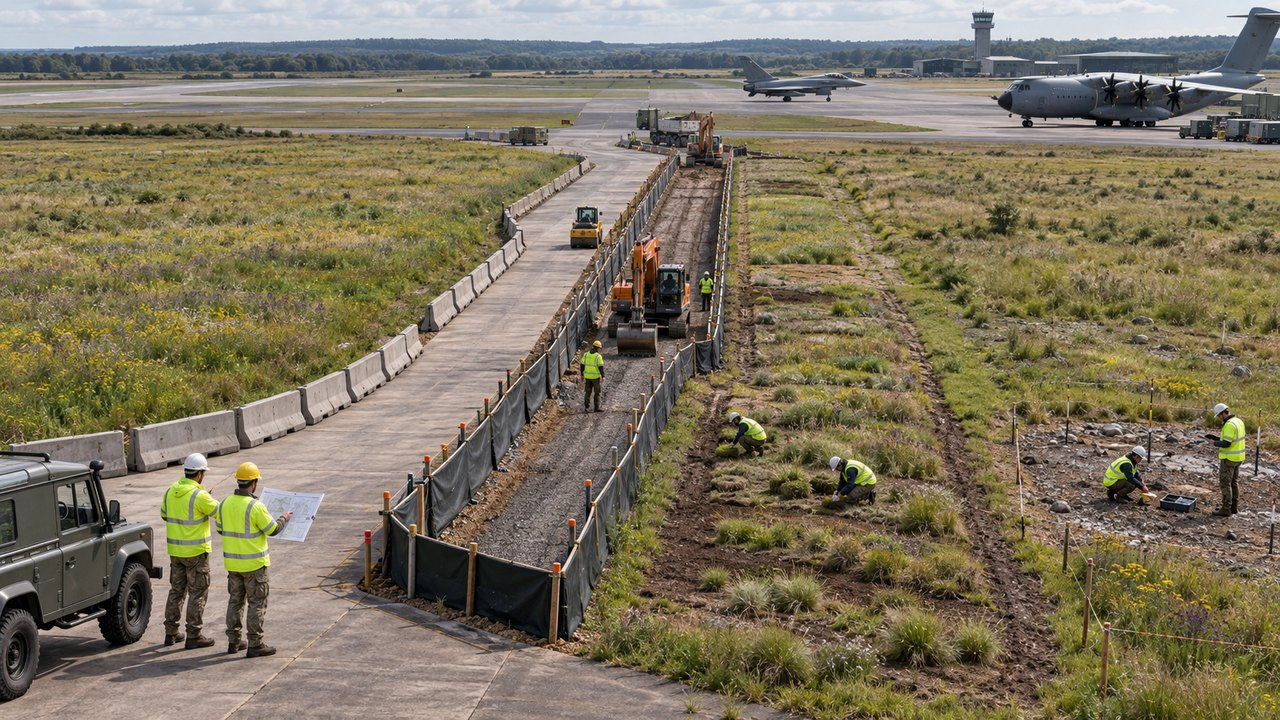
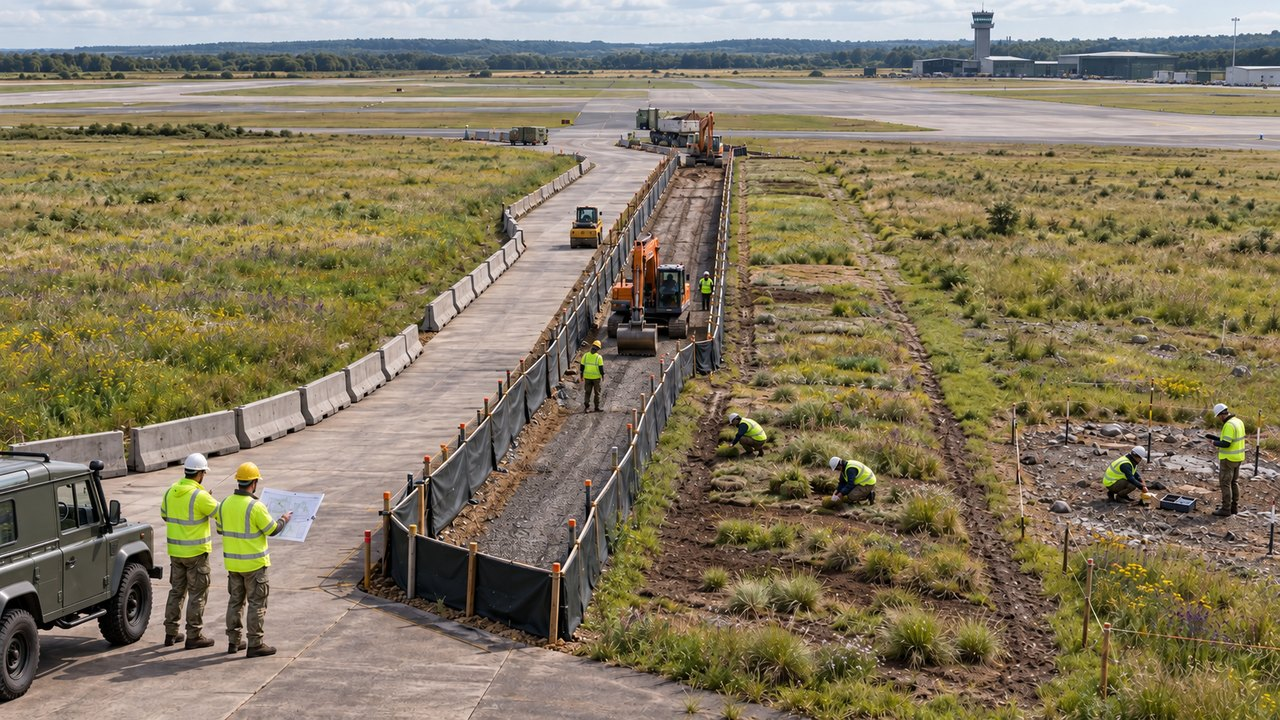
Enforce aircraft and vegetation separation

diff --git a/index.html b/index.html
@@ -5,6 +5,7 @@
   <meta name="viewport" content="width=device-width,initial-scale=1">
   <meta name="description" content="Course on sustainability and biodiversity applied to the aerospace life cycle, operations and professional decision-making.">
   <title>Sustainable Aviation Foundations</title>
+  <!-- Visual rule: images containing vegetation contain no aircraft; images containing aircraft contain no vegetation. Aircraft are limited to A400M or Eurofighter. -->
   <style>
     :root{
       --navy:#071a33;--navy2:#0c2b52;--ink:#17243a;--muted:#52627a;--line:#dfe7ef;
@@ -86,8 +87,7 @@
               <div class="metrics"><div class="metric"><strong>8</strong><span>Modules</span></div><div class="metric"><strong>3–5 h</strong><span>Flexible pace</span></div><div class="metric"><strong>10</strong><span>Decisions</span></div></div>
             </div>
             <div class="heroMedia">
-              <img src="https://upload.wikimedia.org/wikipedia/commons/f/f3/Royal_Air_Force_Airbus_A400M_ZM400_in_flight_over_Bristol_%2845158515%29.jpg" alt="Royal Air Force A400M Atlas flying over Bristol">
-              <div class="photoCaption">A400M Atlas · Cpl Paul Oldfield / UK MoD, Open Government Licence. <a href="https://commons.wikimedia.org/wiki/File:Royal_Air_Force_Airbus_A400M_ZM400_in_flight_over_Bristol_(45158515).jpg" target="_blank" rel="noopener">Source and licence</a></div>
+              <img src="assets/concept-lifecycle.jpg" alt="Engineering team reviews materials and life-cycle stages of a Eurofighter inside an industrial setting with no vegetation">
             </div>
           </div>
         </div>
@@ -127,15 +127,6 @@
             <div class="term"><dt>Ecological integrity</dt><dd>An ecosystem's capacity to maintain its composition, structure, functions and processes over time.</dd></div>
           </dl>
         </section>
-        <section class="section">
-          <div class="sectionHead"><div><div class="kicker">Photo credits</div><h2>Real aircraft, verifiable sources</h2></div><p>Every photograph shows an A400M or Eurofighter and links to its source record and reuse conditions.</p></div>
-          <div class="sourceGrid">
-            <div class="source"><strong>A400M in flight · Cpl Paul Oldfield / UK MoD</strong><a href="https://commons.wikimedia.org/wiki/File:Royal_Air_Force_Airbus_A400M_ZM400_in_flight_over_Bristol_(45158515).jpg" target="_blank" rel="noopener">Wikimedia Commons · Open Government Licence</a></div>
-            <div class="source"><strong>A400M beach landing · Andrew Linnett / UK MoD</strong><a href="https://commons.wikimedia.org/wiki/File:A400M_Beach_Landings_MOD_45162698_(cropped).jpg" target="_blank" rel="noopener">Wikimedia Commons · source and licence</a></div>
-            <div class="source"><strong>Eurofighter in flight · Tech. Sgt. Emerson Nuñez / U.S. Air Force</strong><a href="https://commons.wikimedia.org/wiki/File:Three_German_Luftwaffe_Eurofighter_Typhoon_of_TaktLwG_71_in_flight_over_Germany_on_18_March_2021_(210318-F-TF218-1018).JPG" target="_blank" rel="noopener">Wikimedia Commons · U.S. public domain</a></div>
-            <div class="source"><strong>Eurofighter preflight · Airman 1st Class Dwane R. Young / U.S. Air Force</strong><a href="https://commons.wikimedia.org/wiki/File:German_Luftwaffe_Eurofighter_Typhoon_of_the_31st_Wing_at_Nellis_AFB,_Nevada_(USA),_9_March_2020_(200309-F-NX702-019).JPG" target="_blank" rel="noopener">Wikimedia Commons · U.S. public domain</a></div>
-          </div>
-        </section>
       </section>
       <section id="m1" class="view">
         <div class="moduleHero">
@@ -145,7 +136,7 @@
             <p>Sustainability is not a collection of environmental actions. It is the capacity to preserve value and fulfil a mission without degrading the social, economic and ecological conditions on which that activity depends.</p>
             <div class="moduleMeta"><span class="chip">Dependencies</span><span class="chip">Impacts</span><span class="chip">Double materiality</span></div>
           </div>
-          <div class="moduleImage"><img src="https://upload.wikimedia.org/wikipedia/commons/thumb/e/e8/Three_German_Luftwaffe_Eurofighter_Typhoon_of_TaktLwG_71_in_flight_over_Germany_on_18_March_2021_%28210318-F-TF218-1018%29.JPG/1280px-Three_German_Luftwaffe_Eurofighter_Typhoon_of_TaktLwG_71_in_flight_over_Germany_on_18_March_2021_%28210318-F-TF218-1018%29.JPG" alt="Three German Air Force Eurofighter Typhoons flying over Germany"></div>
+          <div class="moduleImage"><img src="assets/concept-decision-system.jpg" alt="Cross-functional team reviews a systems decision beside an A400M inside a hangar with no vegetation"></div>
         </div>
         <div class="moduleNav"><button class="btn light" data-home>← Course menu</button><span class="chip">01 / 08</span></div>
 
@@ -170,7 +161,7 @@
         <section class="section">
           <div class="sectionHead"><div><div class="kicker">Theory 1.2</div><h2>From ecological interaction to business risk</h2></div></div>
           <div class="theoryGrid">
-            <figure class="theoryFigure"><img src="assets/concept-dependencies.jpg" alt="Technical team connects water, soil, habitats, operations and maintenance decisions at an A400M base" loading="lazy" decoding="async"><figcaption><strong>Reading the system</strong><span>Operations depend on natural resources and functions while also creating pressures. The analysis connects those relationships to risks, opportunities and specific decisions.</span></figcaption></figure>
+            <figure class="theoryFigure"><img src="assets/concept-dependencies.jpg" alt="Technical team connects water, soil, habitats, operations and maintenance decisions at a military facility with no aircraft" loading="lazy" decoding="async"><figcaption><strong>Reading the system</strong><span>Operations depend on natural resources and functions while also creating pressures. The analysis connects those relationships to risks, opportunities and specific decisions.</span></figcaption></figure>
             <article class="theoryCard accent"><h3>Dependencies</h3><p>A dependency exists when an organisation needs a contribution from nature. It may be physical — water of a particular quality, stable ground or raw materials — or regulatory, such as flood control, temperature moderation or soil regeneration. Some dependencies are local; others are hidden several tiers upstream in the supply chain.</p><p>A dependency does not automatically indicate poor practice. It identifies a condition that must be understood because deterioration can affect cost, continuity, quality or availability.</p></article>
             <article class="theoryCard accent"><h3>Impacts</h3><p>An impact is a change in nature associated with an activity. It may occur in direct operations or across the value chain through land transformation, fragmentation, extraction, discharges, noise, artificial light at night, species introduction or pressure on resources.</p><p>Robust analysis describes the mechanism, location, intensity, duration, reversibility and affected receptor. “It has an impact” is too imprecise to guide a decision.</p></article>
             <article class="theoryCard"><h3>Risks and opportunities</h3><p>Impacts and dependencies may translate into physical, regulatory, transition, reputational or operational risks. A flood that interrupts access is a physical risk; an untraceable mineral that becomes unacceptable is a supply-chain risk; an unsupported environmental claim creates legal and reputational risk.</p><p>Opportunities also emerge: repairable design, contracts with stronger traceability, maintenance that extends service life, restoration that reduces a local pressure or data systems that anticipate conflict.</p></article>
@@ -213,7 +204,7 @@
       <section id="m2" class="view">
         <div class="moduleHero">
           <div class="moduleIntro"><div class="kicker">Module 2 · 25–35 minutes</div><h1>How natural systems work</h1><p>Move beyond “counting animals and plants” to understand composition, structure, functions, connectivity and ecological change.</p><div class="moduleMeta"><span class="chip">Genes</span><span class="chip">Species</span><span class="chip">Ecosystems</span><span class="chip">Integrity</span></div></div>
-          <div class="moduleImage"><img src="https://upload.wikimedia.org/wikipedia/commons/thumb/e/e8/A400M_Beach_Landings_MOD_45162698_%28cropped%29.jpg/1280px-A400M_Beach_Landings_MOD_45162698_%28cropped%29.jpg" alt="Royal Air Force A400M Atlas during beach-landing trials"></div>
+          <div class="moduleImage"><img src="assets/concept-connectivity.jpg" alt="Landscape fragmented by a runway, roads, fences and lighting, with no aircraft present"></div>
         </div>
         <div class="moduleNav"><button class="btn light" data-home>← Course menu</button><span class="chip">02 / 08</span></div>
         <div class="learning"><section class="section"><div class="kicker">Objectives</div><h2>By the end, you will be able to</h2><div class="objectiveList"><div class="objective"><b>01</b><span>Explain the three levels of biodiversity and why they depend on one another.</span></div><div class="objective"><b>02</b><span>Distinguish species richness, abundance, composition and ecological integrity.</span></div><div class="objective"><b>03</b><span>Analyse fragmentation, connectivity and resilience in an industrial landscape.</span></div><div class="objective"><b>04</b><span>Select suitable indicators for a specific management question.</span></div></div></section><section class="section"><div class="kicker">Key idea</div><h2>A list does not describe a system</h2><p>Two areas may each support twenty species and still have very different ecological value. It matters which species are present, how many individuals persist, whether they can reproduce, whether habitat is connected and whether the processes sustaining the community still function.</p><div class="conceptBand"><strong>Module rule</strong><p>Biodiversity must be interpreted in spatial and temporal context; a single snapshot does not demonstrate a trend.</p></div></section></div>
@@ -233,7 +224,7 @@
         </div></section>
 
         <section class="section"><div class="sectionHead"><div><div class="kicker">Theory 2.3</div><h2>Connectivity, fragmentation and edge effects</h2></div></div><div class="theoryGrid">
-          <figure class="theoryFigure"><img src="assets/concept-connectivity.jpg" alt="Continuous habitat fragmented by a runway, road, fence and lighting, with a functional passage away from the critical zone of an A400M base" loading="lazy" decoding="async"><figcaption><strong>What the image shows</strong><span>Infrastructure creates patches and more exposed edges. A feature that appears to connect the landscape provides functional connectivity only when the target species can use it; near the runway, zoning avoids creating wildlife attractants.</span></figcaption></figure>
+          <figure class="theoryFigure"><img src="assets/concept-connectivity.jpg" alt="Continuous habitat fragmented by a runway, road, fence and lighting, with a functional passage away from the critical zone and no aircraft present" loading="lazy" decoding="async"><figcaption><strong>What the image shows</strong><span>Infrastructure creates patches and more exposed edges. A feature that appears to connect the landscape provides functional connectivity only when the target species can use it; near the runway, zoning avoids creating wildlife attractants.</span></figcaption></figure>
           <article class="theoryCard full"><p><strong>Fragmentation</strong> is more than loss of area. It divides continuous habitat into small, isolated patches through roads, fences, lighting, buildings or land-use change. Isolation restricts movement, genetic exchange and recolonisation. It also increases <strong>edge effects</strong>: greater exposure to light, noise, temperature change, predation and opportunistic species.</p><p><strong>Structural connectivity</strong> describes whether landscape elements appear connected; <strong>functional connectivity</strong> asks whether a species can actually use them. A vegetated strip may be a corridor for insects and a barrier to other wildlife. Corridors must therefore be designed for target species or processes, not as generic features.</p><p>Aerospace sites face a legitimate tension between connectivity and wildlife-hazard management. Attracting certain species near a runway can increase aircraft-strike risk. The answer is not “more biodiversity everywhere”, but zoning: conserve and connect where compatible, avoid attractants in critical areas and coordinate ecology with operational safety.</p></article>
           <article class="theoryCard"><h3>Resistance</h3><p>The capacity to withstand a disturbance without substantial change. It depends on the event's intensity, duration and frequency and on the system's prior condition.</p></article><article class="theoryCard"><h3>Recovery</h3><p>The capacity to return to a functional condition after disturbance. A system may have low resistance but recover well; both concepts form part of resilience.</p></article>
         </div></section>
@@ -257,7 +248,7 @@
         <section class="section"><div class="sectionHead"><div><div class="kicker">Core sources</div><h2>Further reading</h2></div></div><div class="sourceGrid"><div class="source"><strong>IPBES · Global Assessment</strong><a href="https://www.ipbes.net/global-assessment" target="_blank" rel="noopener">Global assessment of biodiversity and ecosystem services</a></div><div class="source"><strong>EU Habitats Directive</strong><a href="https://environment.ec.europa.eu/topics/nature-and-biodiversity/habitats-directive_en" target="_blank" rel="noopener">Favourable conservation status</a></div><div class="source"><strong>Convention on Biological Diversity</strong><a href="https://www.cbd.int/gbf/targets" target="_blank" rel="noopener">The Global Biodiversity Framework's 23 targets</a></div><div class="source"><strong>European Commission · Birds Directive</strong><a href="https://environment.ec.europa.eu/topics/nature-and-biodiversity/birds-directive_en" target="_blank" rel="noopener">Protection of wild birds and their habitats</a></div></div></section>
       </section>
       <section id="m3" class="view">
-        <div class="moduleHero"><div class="moduleIntro"><div class="kicker">Module 3 · 25–35 minutes</div><h1>The aerospace life cycle and biodiversity</h1><p>A design change can reduce one pressure while increasing another. Life cycle thinking reveals shifts among locations, suppliers and stages before a decision is made.</p><div class="moduleMeta"><span class="chip">LCA</span><span class="chip">Eco-design</span><span class="chip">Retrofit</span><span class="chip">End of life</span></div></div><div class="moduleImage"><img src="https://upload.wikimedia.org/wikipedia/commons/f/f3/Royal_Air_Force_Airbus_A400M_ZM400_in_flight_over_Bristol_%2845158515%29.jpg" alt="Royal Air Force A400M Atlas flying over Bristol"></div></div>
+        <div class="moduleHero"><div class="moduleIntro"><div class="kicker">Module 3 · 25–35 minutes</div><h1>The aerospace life cycle and biodiversity</h1><p>A design change can reduce one pressure while increasing another. Life cycle thinking reveals shifts among locations, suppliers and stages before a decision is made.</p><div class="moduleMeta"><span class="chip">LCA</span><span class="chip">Eco-design</span><span class="chip">Retrofit</span><span class="chip">End of life</span></div></div><div class="moduleImage"><img src="assets/concept-lifecycle.jpg" alt="Engineering team compares materials and life-cycle stages of a Eurofighter in an industrial setting with no vegetation"></div></div>
         <div class="moduleNav"><button class="btn light" data-home>← Course menu</button><span class="chip">03 / 08</span></div>
         <div class="learning"><section class="section"><div class="kicker">Objectives</div><h2>By the end, you will be able to</h2><div class="objectiveList"><div class="objective"><b>01</b><span>Define function, functional unit and boundaries before comparing solutions.</span></div><div class="objective"><b>02</b><span>Recognise biodiversity impact pathways at each life cycle stage.</span></div><div class="objective"><b>03</b><span>Detect burden shifting among extraction, manufacture, use and end of life.</span></div><div class="objective"><b>04</b><span>Include repairability, modularity and traceability in a retrofit decision.</span></div></div></section><section class="section"><div class="kicker">Key idea</div><h2>Comparison requires a shared function</h2><p>A lighter part is not automatically better, nor is a recyclable one. First define the function, service period, operating conditions and safety requirements. Then compare equivalent alternatives.</p><div class="conceptBand"><strong>Module rule</strong><p>Do not optimise one stage by sacrificing another without understanding the scale and reason for the trade-off.</p></div></section></div>
 
@@ -304,7 +295,7 @@
         <section class="section"><div class="sectionHead"><div><div class="kicker">Core sources</div><h2>Further reading</h2></div></div><div class="sourceGrid"><div class="source"><strong>ISO · Life cycle assessment</strong><a href="https://www.iso.org/standard/37456.html" target="_blank" rel="noopener">ISO 14040: principles and framework</a></div><div class="source"><strong>European Commission · Product Environmental Footprint</strong><a href="https://environment.ec.europa.eu/topics/circular-economy/levels_en" target="_blank" rel="noopener">Life cycle and circularity approaches</a></div><div class="source"><strong>Airbus · Sustainability</strong><a href="https://www.airbus.com/en/sustainability" target="_blank" rel="noopener">Public sustainability information</a></div><div class="source"><strong>Airbus · A400M</strong><a href="https://www.airbus.com/en/products-services/defence/military-aircraft/a400m" target="_blank" rel="noopener">Public product context</a></div></div></section>
       </section>
       <section id="m4" class="view">
-        <div class="moduleHero"><div class="moduleIntro"><div class="kicker">Module 4 · 20–30 minutes</div><h1>Operations, land and wildlife</h1><p>Local management must protect operational safety, compliance, mission continuity and the surrounding area's ecological condition at the same time.</p><div class="moduleMeta"><span class="chip">Industrial site</span><span class="chip">Wildlife</span><span class="chip">Risk</span><span class="chip">Controls</span></div></div><div class="moduleImage"><img src="https://upload.wikimedia.org/wikipedia/commons/thumb/0/07/German_Luftwaffe_Eurofighter_Typhoon_of_the_31st_Wing_at_Nellis_AFB%2C_Nevada_%28USA%29%2C_9_March_2020_%28200309-F-NX702-019%29.JPG/1280px-German_Luftwaffe_Eurofighter_Typhoon_of_the_31st_Wing_at_Nellis_AFB%2C_Nevada_%28USA%29%2C_9_March_2020_%28200309-F-NX702-019%29.JPG" alt="German Air Force maintenance team conducting Eurofighter Typhoon preflight checks"></div></div>
+        <div class="moduleHero"><div class="moduleIntro"><div class="kicker">Module 4 · 20–30 minutes</div><h1>Operations, land and wildlife</h1><p>Local management must protect operational safety, compliance, mission continuity and the surrounding area's ecological condition at the same time.</p><div class="moduleMeta"><span class="chip">Industrial site</span><span class="chip">Wildlife</span><span class="chip">Risk</span><span class="chip">Controls</span></div></div><div class="moduleImage"><img src="assets/concept-wildlife-zoning.jpg" alt="Wildlife-control team observes a runway and compatible habitat zones with no aircraft present"></div></div>
         <div class="moduleNav"><button class="btn light" data-home>← Course menu</button><span class="chip">04 / 08</span></div>
         <div class="learning"><section class="section"><div class="kicker">Objectives</div><h2>By the end, you will be able to</h2><div class="objectiveList"><div class="objective"><b>01</b><span>Read a base as part of a landscape rather than an isolated plot.</span></div><div class="objective"><b>02</b><span>Apply the source → pathway → receptor model to an ecological pressure.</span></div><div class="objective"><b>03</b><span>Reconcile wildlife management and aviation safety through zoning.</span></div><div class="objective"><b>04</b><span>Design controls, stop criteria and adaptive monitoring.</span></div></div></section><section class="section"><div class="kicker">Key idea</div><h2>Compatibility, not decoration</h2><p>A base may contain ecological functions, corridors and sensitive receptors. Yet an action that improves habitat far from the runway may be an unsuitable attractant in a critical zone. Quality means placing each measure where it performs its function without creating new risk.</p><div class="conceptBand"><strong>Module rule</strong><p>Manage pressure at source and design space around receptors and functions.</p></div></section></div>
 
@@ -324,7 +315,7 @@
           <article class="theoryCard"><h3>Movement and invasive species</h3><p>Vehicles, equipment, soils and packaging may transport seeds, invertebrates or pathogens. Inspection, cleaning and construction-material traceability close introduction pathways.</p></article>
         </div></section>
 
-        <section class="section"><div class="sectionHead"><div><div class="kicker">Theory 4.4</div><h2>Wildlife and aviation safety: integrated management</h2></div></div><div class="theoryGrid"><figure class="theoryFigure"><img src="assets/concept-wildlife-zoning.jpg" alt="Wildlife-control team observes and records movements from a compatible zone separated from the runway of an A400M base" loading="lazy" decoding="async"><figcaption><strong>Zoning and monitoring</strong><span>Management separates critical zones, where attractants are reduced, from compatible areas away from the runway. Sightings, timing and movement data support corrections without displacing risk.</span></figcaption></figure><article class="theoryCard full"><p>Wildlife-strike risk requires reducing the presence and movement of hazardous species in critical zones. This does not mean eliminating all site biodiversity. It means identifying attractants — standing water, food, shelter or certain vegetation — understanding patterns and responding proportionately.</p><p><strong>Zoning</strong> separates objectives: close to runways and flight paths, prioritise habitat unattractive to risk species; in distant compatible areas, conserve valuable habitat, improve connectivity or restore functions. Use sightings and incident records, species identification, timing, weather and continuous measure evaluation.</p><p>Deterrence, habitat modification and operational response must be coordinated. An isolated measure may shift wildlife into a more dangerous area. Evaluate success through reduced presence and risk in critical zones, not the number of interventions.</p></article></div></section>
+        <section class="section"><div class="sectionHead"><div><div class="kicker">Theory 4.4</div><h2>Wildlife and aviation safety: integrated management</h2></div></div><div class="theoryGrid"><figure class="theoryFigure"><img src="assets/concept-wildlife-zoning.jpg" alt="Wildlife-control team observes and records movements from a compatible zone separated from the runway of a military installation with no aircraft present" loading="lazy" decoding="async"><figcaption><strong>Zoning and monitoring</strong><span>Management separates critical zones, where attractants are reduced, from compatible areas away from the runway. Sightings, timing and movement data support corrections without displacing risk.</span></figcaption></figure><article class="theoryCard full"><p>Wildlife-strike risk requires reducing the presence and movement of hazardous species in critical zones. This does not mean eliminating all site biodiversity. It means identifying attractants — standing water, food, shelter or certain vegetation — understanding patterns and responding proportionately.</p><p><strong>Zoning</strong> separates objectives: close to runways and flight paths, prioritise habitat unattractive to risk species; in distant compatible areas, conserve valuable habitat, improve connectivity or restore functions. Use sightings and incident records, species identification, timing, weather and continuous measure evaluation.</p><p>Deterrence, habitat modification and operational response must be coordinated. An isolated measure may shift wildlife into a more dangerous area. Evaluate success through reduced presence and risk in critical zones, not the number of interventions.</p></article></div></section>
 
         <section class="section"><div class="sectionHead"><div><div class="kicker">Theory 4.5 · Deep dive</div><h2>From map to daily operational plan</h2></div><p>A baseline creates value only when it changes planning, work permits, incident response and team coordination.</p></div><div class="theoryGrid">
           <article class="theoryCard"><h3>Functional zoning</h3><p>Divide the base by compatibility and risk: critical operational areas; attractant-control zones; transition areas; compatible corridors or habitats; drainage and downstream receptors; and temporary work surfaces. Each zone needs permitted uses, restrictions and an owner.</p><p>Zoning must appear in actual operational systems: drawings, work orders, contractor briefings and campaign planning. A map stored in a report controls nothing.</p></article>
@@ -343,7 +334,7 @@
         <section class="section"><div class="sectionHead"><div><div class="kicker">Core sources</div><h2>Further reading</h2></div></div><div class="sourceGrid"><div class="source"><strong>ISO 14001</strong><a href="https://www.iso.org/iso-14001-environmental-management.html" target="_blank" rel="noopener">Environmental management systems</a></div><div class="source"><strong>ICAO · Wildlife strike hazard reduction</strong><a href="https://www.icao.int/safety/safetymanagement/pages/wildlife-strike-hazard-reduction.aspx" target="_blank" rel="noopener">Airport safety framework</a></div><div class="source"><strong>European Commission · Nature Restoration Regulation</strong><a href="https://environment.ec.europa.eu/topics/nature-and-biodiversity/nature-restoration-regulation_en" target="_blank" rel="noopener">Regulation and implementation</a></div><div class="source"><strong>Airbus · Eurofighter</strong><a href="https://www.airbus.com/en/products-services/defence/military-aircraft/eurofighter" target="_blank" rel="noopener">Public product context and imagery</a></div></div></section>
       </section>
       <section id="m5" class="view">
-        <div class="moduleHero"><div class="moduleIntro"><div class="kicker">Module 5 · 20–30 minutes</div><h1>Materials, procurement and circularity</h1><p>A component's biodiversity footprint begins long before it reaches the plant. Traceability, service life and value retention are engineering and procurement decisions.</p><div class="moduleMeta"><span class="chip">Traceability</span><span class="chip">Due diligence</span><span class="chip">Circularity</span><span class="chip">Suppliers</span></div></div><div class="moduleImage"><img src="https://upload.wikimedia.org/wikipedia/commons/thumb/e/e8/Three_German_Luftwaffe_Eurofighter_Typhoon_of_TaktLwG_71_in_flight_over_Germany_on_18_March_2021_%28210318-F-TF218-1018%29.JPG/1280px-Three_German_Luftwaffe_Eurofighter_Typhoon_of_TaktLwG_71_in_flight_over_Germany_on_18_March_2021_%28210318-F-TF218-1018%29.JPG" alt="Three German Air Force Eurofighter Typhoons in flight"></div></div>
+        <div class="moduleHero"><div class="moduleIntro"><div class="kicker">Module 5 · 20–30 minutes</div><h1>Materials, procurement and circularity</h1><p>A component's biodiversity footprint begins long before it reaches the plant. Traceability, service life and value retention are engineering and procurement decisions.</p><div class="moduleMeta"><span class="chip">Traceability</span><span class="chip">Due diligence</span><span class="chip">Circularity</span><span class="chip">Suppliers</span></div></div><div class="moduleImage"><img src="assets/concept-value-chain.jpg" alt="Procurement and engineering team reviews an A400M supply chain inside a hangar with no vegetation"></div></div>
         <div class="moduleNav"><button class="btn light" data-home>← Course menu</button><span class="chip">05 / 08</span></div>
         <div class="learning"><section class="section"><div class="kicker">Objectives</div><h2>By the end, you will be able to</h2><div class="objectiveList"><div class="objective"><b>01</b><span>Map a material chain beyond the direct supplier.</span></div><div class="objective"><b>02</b><span>Distinguish traceability from risk-based due diligence.</span></div><div class="objective"><b>03</b><span>Apply a value-retention hierarchy to aerospace equipment.</span></div><div class="objective"><b>04</b><span>Translate expectations into verifiable contractual requirements.</span></div></div></section><section class="section"><div class="kicker">Key idea</div><h2>The direct supplier is not the origin</h2><p>A Tier 1 supplier may know performance and price while extraction, refining and conversion remain several tiers away. Biodiversity risk often concentrates where the organisation has least visibility.</p><div class="conceptBand"><strong>Module rule</strong><p>Do not treat a certificate as the end of the analysis: verify scope, chain and risk response.</p></div></section></div>
 
@@ -388,7 +379,7 @@
         <section class="section"><div class="sectionHead"><div><div class="kicker">Core sources</div><h2>Further reading</h2></div></div><div class="sourceGrid"><div class="source"><strong>OECD · Responsible business conduct</strong><a href="https://mneguidelines.oecd.org/due-diligence-guidance-for-responsible-business-conduct.htm" target="_blank" rel="noopener">Due diligence guidance</a></div><div class="source"><strong>TNFD · LEAP</strong><a href="https://tnfd.global/assessment-guidance/" target="_blank" rel="noopener">Nature-related assessment</a></div><div class="source"><strong>European Commission · Circular economy</strong><a href="https://environment.ec.europa.eu/strategy/circular-economy-action-plan_en" target="_blank" rel="noopener">Circular Economy Action Plan</a></div><div class="source"><strong>Airbus · Sustainability</strong><a href="https://www.airbus.com/en/sustainability" target="_blank" rel="noopener">Public sustainability information</a></div></div></section>
       </section>
       <section id="m6" class="view">
-        <div class="moduleHero"><div class="moduleIntro"><div class="kicker">Module 6 · 20–30 minutes</div><h1>Mitigation hierarchy and restoration</h1><p>Avoid, reduce and restore; consider compensation only for residual impacts under strict conditions.</p><div class="moduleMeta"><span class="chip">Avoid</span><span class="chip">Reduce</span><span class="chip">Restore</span><span class="chip">Residual</span></div></div><div class="moduleImage"><img src="https://upload.wikimedia.org/wikipedia/commons/thumb/e/e8/A400M_Beach_Landings_MOD_45162698_%28cropped%29.jpg/1280px-A400M_Beach_Landings_MOD_45162698_%28cropped%29.jpg" alt="Royal Air Force A400M Atlas during beach-landing trials"></div></div>
+        <div class="moduleHero"><div class="moduleIntro"><div class="kicker">Module 6 · 20–30 minutes</div><h1>Mitigation hierarchy and restoration</h1><p>Avoid, reduce and restore; consider compensation only for residual impacts under strict conditions.</p><div class="moduleMeta"><span class="chip">Avoid</span><span class="chip">Reduce</span><span class="chip">Restore</span><span class="chip">Residual</span></div></div><div class="moduleImage"><img src="assets/concept-mitigation-hierarchy.jpg" alt="A constrained construction footprint and rehabilitation of disturbed ground beside a runway with no aircraft present"></div></div>
         <div class="moduleNav"><button class="btn light" data-home>← Course menu</button><span class="chip">06 / 08</span></div>
         <div class="learning"><section class="section"><div class="kicker">Objectives</div><h2>By the end, you will be able to</h2><div class="objectiveList"><div class="objective"><b>01</b><span>Apply the hierarchy in the correct order.</span></div><div class="objective"><b>02</b><span>Distinguish rehabilitation, restoration and compensation.</span></div><div class="objective"><b>03</b><span>Design objectives, trajectories and corrective thresholds.</span></div><div class="objective"><b>04</b><span>Challenge additionality, leakage, permanence and time lag.</span></div></div></section><section class="section"><div class="kicker">Key idea</div><h2>Restoration does not authorise destruction</h2><p>Avoidance retains function from day one. Restoration is uncertain and may take decades; it is not a shortcut around viable alternatives.</p><div class="conceptBand"><strong>Module rule</strong><p>Demonstrate avoidance before describing restoration benefits.</p></div></section></div>
         <section class="section"><div class="sectionHead"><div><div class="kicker">Theory 6.1</div><h2>The response sequence</h2></div></div><div class="theoryGrid"><figure class="theoryFigure"><img src="assets/concept-mitigation-hierarchy.jpg" alt="Route comparison first avoids grassland, then limits construction and rehabilitates only disturbed ground at a military airfield" loading="lazy" decoding="async"><figcaption><strong>Avoid before repairing</strong><span>The route on already degraded ground avoids the main impact. Unavoidable work is narrowed and disturbed ground rehabilitated; any residual effect still requires credible equivalence and feasibility.</span></figcaption></figure><article class="theoryCard"><h3>1. Avoid</h3><p>Change location, footprint, timing, technology or need so the impact does not occur. Avoidance is strongest where values are sensitive or irreplaceable.</p></article><article class="theoryCard"><h3>2. Reduce</h3><p>Control unavoidable pressures at source and along pathways: smaller footprint, different schedule, shielding, containment or less intense operation.</p></article><article class="theoryCard"><h3>3. Restore or rehabilitate</h3><p>Repair affected composition, structure and function against a defined reference and trajectory. Planting alone is an activity, not proof of recovery.</p></article><article class="theoryCard"><h3>4. Residual impacts</h3><p>Characterise what remains after feasible measures. Some critical or irreplaceable impacts may be unacceptable rather than compensable.</p></article></div></section>
@@ -401,7 +392,7 @@
         <section class="section"><div class="sectionHead"><div><div class="kicker">Core sources</div><h2>Further reading</h2></div></div><div class="sourceGrid"><div class="source"><strong>SBTN · AR3T</strong><a href="https://sciencebasedtargetsnetwork.org/companies/take-action/act/" target="_blank" rel="noopener">Avoid, Reduce, Regenerate, Restore, Transform</a></div><div class="source"><strong>European Commission</strong><a href="https://environment.ec.europa.eu/topics/nature-and-biodiversity/nature-restoration-regulation_en" target="_blank" rel="noopener">Nature Restoration Regulation</a></div><div class="source"><strong>CBD · Target 2</strong><a href="https://www.cbd.int/gbf/targets/2/" target="_blank" rel="noopener">Effective restoration</a></div></div></section>
       </section>
       <section id="m7" class="view">
-        <div class="moduleHero"><div class="moduleIntro"><div class="kicker">Module 7 · 25–35 minutes</div><h1>Measure and communicate with rigour</h1><p>Evidence turns good intentions into manageable decisions. Responsible communication states scope, method, result, uncertainty and limitations.</p><div class="moduleMeta"><span class="chip">Indicators</span><span class="chip">ESRS E4</span><span class="chip">TNFD</span><span class="chip">Claims</span></div></div><div class="moduleImage"><img src="https://upload.wikimedia.org/wikipedia/commons/thumb/e/e8/Three_German_Luftwaffe_Eurofighter_Typhoon_of_TaktLwG_71_in_flight_over_Germany_on_18_March_2021_%28210318-F-TF218-1018%29.JPG/1280px-Three_German_Luftwaffe_Eurofighter_Typhoon_of_TaktLwG_71_in_flight_over_Germany_on_18_March_2021_%28210318-F-TF218-1018%29.JPG" alt="Three Eurofighter Typhoons in flight"></div></div>
+        <div class="moduleHero"><div class="moduleIntro"><div class="kicker">Module 7 · 25–35 minutes</div><h1>Measure and communicate with rigour</h1><p>Evidence turns good intentions into manageable decisions. Responsible communication states scope, method, result, uncertainty and limitations.</p><div class="moduleMeta"><span class="chip">Indicators</span><span class="chip">ESRS E4</span><span class="chip">TNFD</span><span class="chip">Claims</span></div></div><div class="moduleImage"><img src="assets/concept-evidence.jpg" alt="Technical team reviews A400M maintenance evidence inside a hangar with no vegetation"></div></div>
         <div class="moduleNav"><button class="btn light" data-home>← Course menu</button><span class="chip">07 / 08</span></div>
         <div class="learning"><section class="section"><div class="kicker">Objectives</div><h2>By the end, you will be able to</h2><div class="objectiveList"><div class="objective"><b>01</b><span>Build an objective → pressure → state → outcome → decision chain.</span></div><div class="objective"><b>02</b><span>Distinguish input, activity, output, outcome and impact.</span></div><div class="objective"><b>03</b><span>Position ESRS E4, TNFD, GBF and ISO 14001 in one architecture.</span></div><div class="objective"><b>04</b><span>Write specific, defensible environmental claims.</span></div></div></section><section class="section"><div class="kicker">Key idea</div><h2>Measurement is not collecting numbers</h2><p>A good system selects a few variables linked to the impact mechanism, assigns action when they change and retains data traceability.</p><div class="conceptBand"><strong>Module rule</strong><p>If an indicator changes no decision, reconsider why it is measured.</p></div></section></div>
         <section class="section"><div class="sectionHead"><div><div class="kicker">Theory 7.1</div><h2>The evidence chain</h2></div></div><div class="theoryGrid"><figure class="theoryFigure"><img src="assets/concept-evidence.jpg" alt="Technical team checks an A400M component against records, indicators, accountable owners and review criteria" loading="lazy" decoding="async"><figcaption><strong>From data to decision</strong><span>Useful evidence links objective, pressure, state, outcome and action threshold. A dashboard is defensible only when method, scope, quality, ownership and uncertainty are retained.</span></figcaption></figure><article class="theoryCard"><h3>Objective</h3><p>Define desired condition, scope and deadline.</p></article><article class="theoryCard"><h3>Pressure and mechanism</h3><p>Identify what changes and how it reaches the receptor.</p></article><article class="theoryCard"><h3>State and outcome</h3><p>State describes condition; outcome describes change consistent with the intervention.</p></article><article class="theoryCard"><h3>Decision</h3><p>Set thresholds for continuation, correction, investigation or stop.</p></article></div></section>
@@ -415,7 +406,7 @@
         <section class="section"><div class="sectionHead"><div><div class="kicker">Core sources</div><h2>Further reading</h2></div></div><div class="sourceGrid"><div class="source"><strong>EUR-Lex · ESRS</strong><a href="https://eur-lex.europa.eu/eli/reg_del/2023/2772/oj/eng" target="_blank" rel="noopener">ESRS E4</a></div><div class="source"><strong>TNFD</strong><a href="https://tnfd.global/recommendations/" target="_blank" rel="noopener">Recommendations</a></div><div class="source"><strong>CBD · Target 15</strong><a href="https://www.cbd.int/gbf/targets/15/" target="_blank" rel="noopener">Business and biodiversity</a></div></div></section>
       </section>
       <section id="m8" class="view">
-        <div class="moduleHero"><div class="moduleIntro"><div class="kicker">Module 8 · 35–50 minutes</div><h1>Decision Lab: final mission</h1><p>A retrofit and base-preparation War Room. Three connected decisions and a concise plan demonstrate integrated, evidence-based judgement.</p><div class="moduleMeta"><span class="chip">War Room</span><span class="chip">A400M</span><span class="chip">Suppliers</span><span class="chip">Evidence</span></div></div><div class="moduleImage"><img src="https://upload.wikimedia.org/wikipedia/commons/f/f3/Royal_Air_Force_Airbus_A400M_ZM400_in_flight_over_Bristol_%2845158515%29.jpg" alt="Royal Air Force A400M Atlas in flight"></div></div>
+        <div class="moduleHero"><div class="moduleIntro"><div class="kicker">Module 8 · 35–50 minutes</div><h1>Decision Lab: final mission</h1><p>A retrofit and base-preparation War Room. Three connected decisions and a concise plan demonstrate integrated, evidence-based judgement.</p><div class="moduleMeta"><span class="chip">War Room</span><span class="chip">A400M</span><span class="chip">Suppliers</span><span class="chip">Evidence</span></div></div><div class="moduleImage"><img src="assets/concept-decision-system.jpg" alt="Cross-functional team compares evidence beside an A400M inside a hangar with no vegetation"></div></div>
         <div class="moduleNav"><button class="btn light" data-home>← Course menu</button><span class="chip">08 / 08</span></div>
         <div class="learning"><section class="section"><div class="kicker">Mission</div><h2>ORION retrofit</h2><p>This fictional A400M upgrade requires new electronics, a temporary integration area and a test campaign. Schedule is demanding and management wants sustainability communication.</p><div class="objectiveList"><div class="objective"><b>A</b><span>Select an operationally and ecologically compatible location.</span></div><div class="objective"><b>B</b><span>Choose a traceable, circular supplier strategy.</span></div><div class="objective"><b>C</b><span>Define indicators and a proportionate claim.</span></div></div></section><section class="section"><div class="kicker">Success criterion</div><h2>No decision stands alone</h2><p>Location affects drainage and wildlife; architecture affects materials and support; communication depends on measurable evidence.</p><div class="conceptBand"><strong>Final sequence</strong><p>Locate → evaluate → prioritise → apply hierarchy → control → measure → communicate → review.</p></div></section></div>
         <section class="section"><div class="sectionHead"><div><div class="kicker">Briefing</div><h2>War Room data</h2></div><p>Use only available information. Where evidence is material but missing, the right decision may be conditional.</p></div><div class="theoryGrid"><article class="theoryCard"><h3>Land</h3><p>North: 3 ha beside a temporary wetland and bird corridor, lower cost, immediate access. West: 3.4 ha degraded industrial land, drainage adaptation and two extra weeks.</p></article><article class="theoryCard"><h3>Equipment</h3><p>X: sealed, lower mass, partial mineral origin. Y: replaceable modules, +3% mass, chain to refiner and take-back.</p></article><article class="theoryCard"><h3>Operations</h3><p>Day and night tests; seasonal wetland use; safety lighting fixed, with scope for shielding and zoning outside the critical area.</p></article><article class="theoryCard"><h3>Communication</h3><p>A headline is requested in eight weeks. Only design, contracts and baseline will exist; ecological results need at least two seasons.</p></article></div></section>
